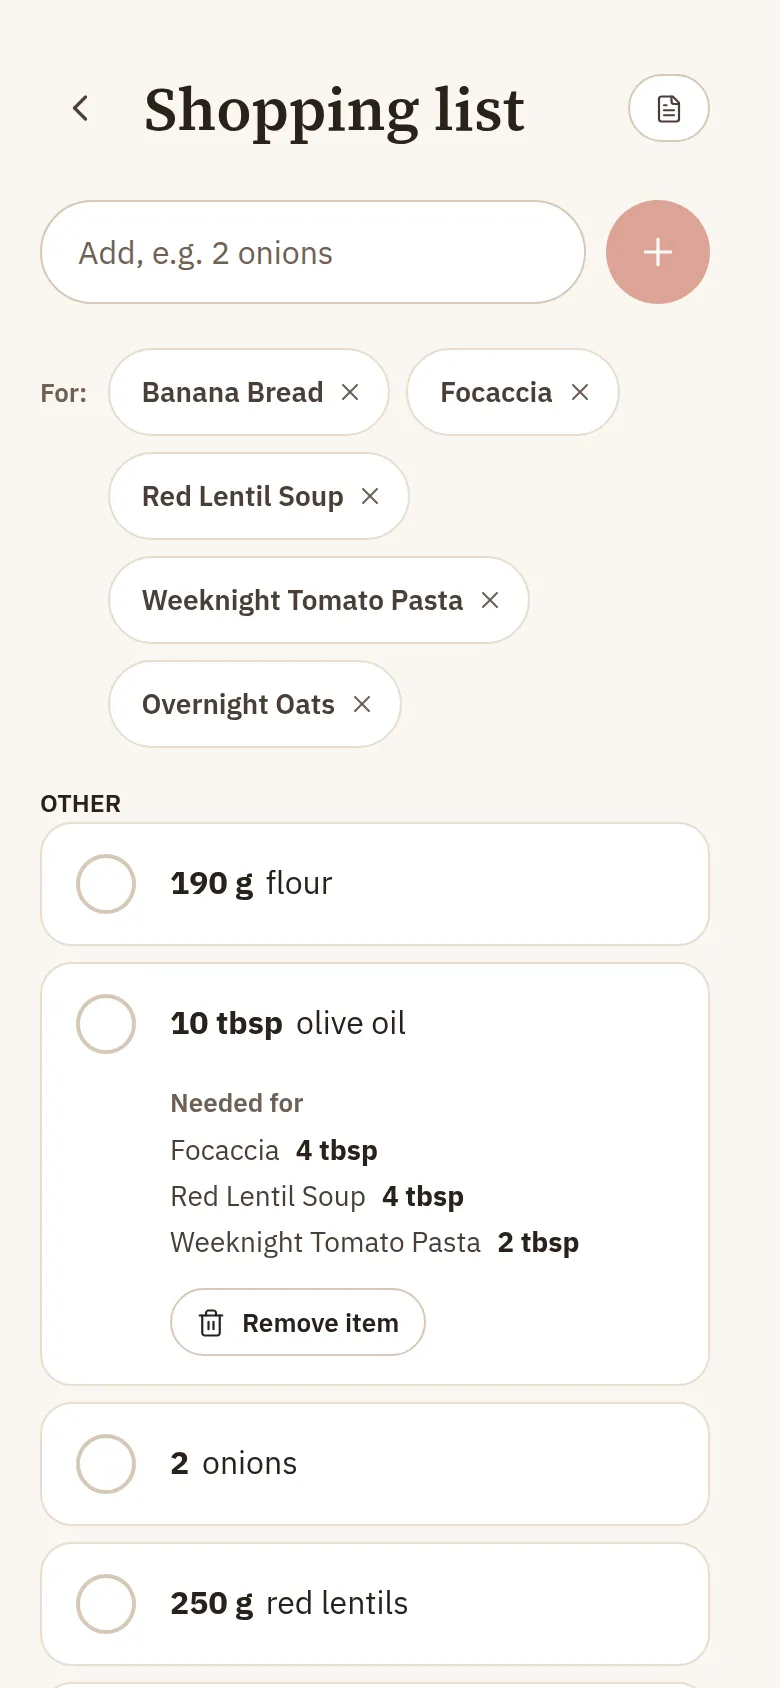
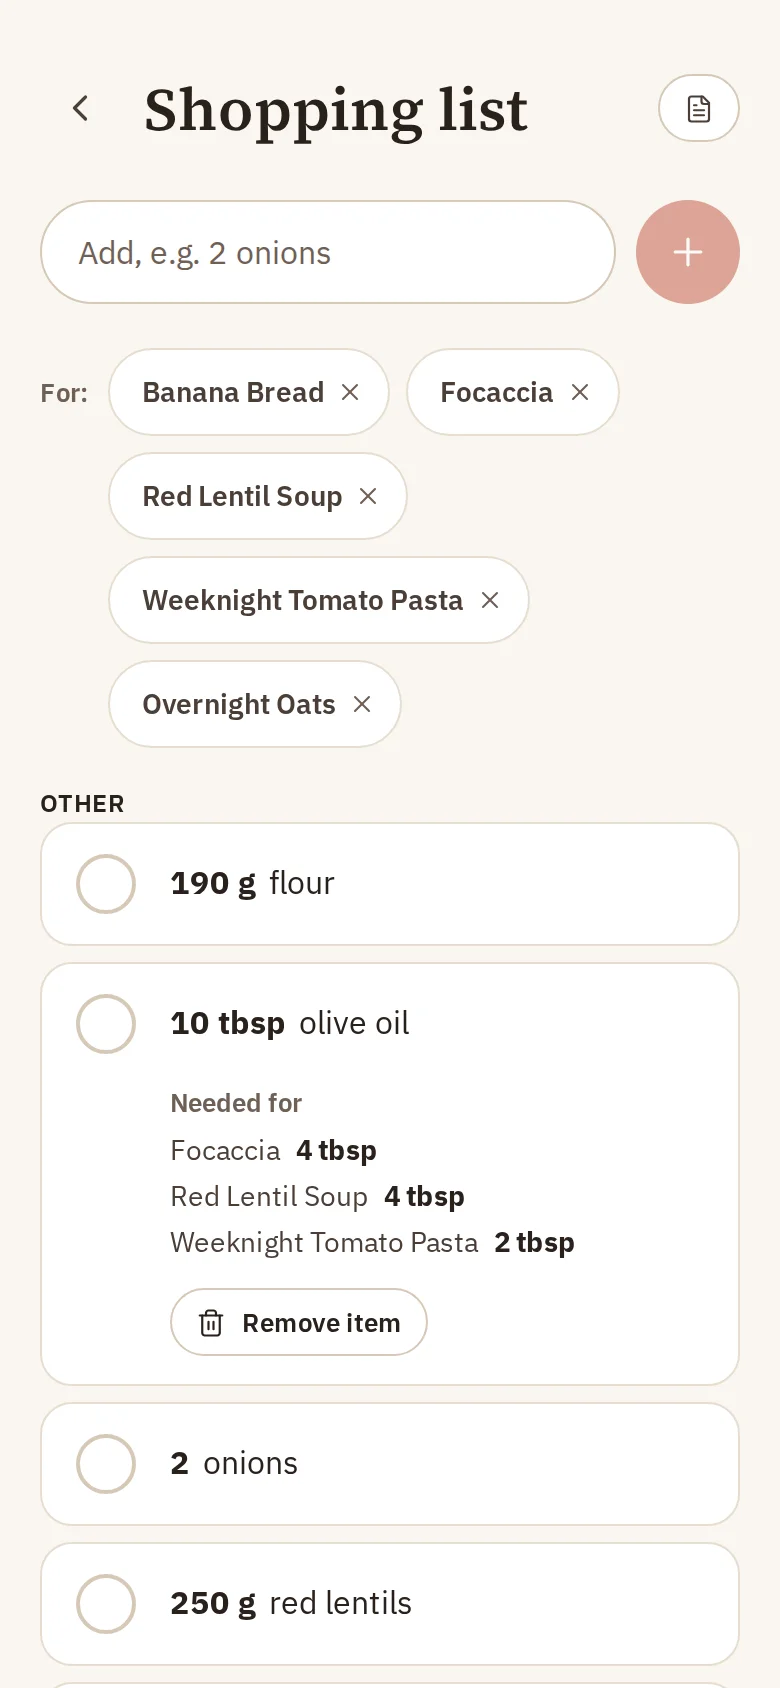
docs: screenshots for 1.0 (README and directory listing) (#143)
* docs: screenshots for 1.0 (README and directory listing)

Retake the five README images with the current version, add the editor,
delete dialog and feedback dialog, list the corrections in the features,
and add the image set for the Obsidian community directory (docs/listing).

Closes #142

Claude-Session: https://claude.ai/code/session_01FoRi29DfdsGHMxXfCxAuKG

* docs: retake screenshots with food photos

Recipe cards and pages showed only the striped placeholder. The images are
retaken with free Unsplash photos fed into the preview only while taking
the screenshots (the photos are not in the repository); credits are in
docs/listing/README.md.

Claude-Session: https://claude.ai/code/session_01FoRi29DfdsGHMxXfCxAuKG

diff --git a/docs/listing/README.md b/docs/listing/README.md
@@ -1,0 +1,41 @@
+# Directory listing images
+
+Images for the listing of Better Cooking in the Obsidian community directory. All images show the browser preview (`pnpm preview`) with the self-written example recipes of `tests/fixtures/`, English interface (`lang=en`). Nothing in them is private data. The food photos on the recipe cards and pages were added only while taking the screenshots; they are not part of this repository.
+
+Order for the listing (desktop and phone are meant to be shown as two groups):
+
+| #   | Desktop, 1200 x 800 px         | Shows                                                  | Theme |
+| --- | ------------------------------ | ------------------------------------------------------ | ----- |
+| 1   | `desktop-1-overview.png`       | Overview with recipe cards, lists and categories       | light |
+| 2   | `desktop-2-recipe-dark.png`    | Recipe page with servings calculator and timer buttons | dark  |
+| 3   | `desktop-3-shopping-list.png`  | Shopping list with sections per store                  | light |
+| 4   | `desktop-4-meal-plan-dark.png` | Meal plan with the days of the week                    | dark  |
+| 5   | `desktop-5-editor.png`         | Recipe editor (new in 0.9)                             | light |
+
+| #   | Phone, 900 x 1600 px            | Shows                                                       | Theme |
+| --- | ------------------------------- | ----------------------------------------------------------- | ----- |
+| 1   | `phone-1-overview.png`          | Overview                                                    | light |
+| 2   | `phone-2-recipe-dark.png`       | Recipe page                                                 | dark  |
+| 3   | `phone-3-cooking-mode-dark.png` | Cooking mode with a running timer                           | dark  |
+| 4   | `phone-4-shopping-list.png`     | Shopping list with the amounts per recipe of an opened line | light |
+| 5   | `phone-5-meal-plan-dark.png`    | Meal plan                                                   | dark  |
+
+Phone images are taken at a viewport of 450 x 800 px with device scale factor 2 and touch emulation; desktop images at 1200 x 800 px, factor 1.
+
+## Suggested short description (about 250 characters)
+
+> Browse, search and cook your recipe notes: card overview, instant offline search, servings calculator, step-by-step cooking mode with timers, shopping list, meal plan, and import from a link or your own AI.
+
+## Suggested keywords
+
+The directory has no fixed category list; the manifest `description` and the README are what it shows and searches. Keywords that fit: recipes, cooking, cookbook, meal plan, shopping list, timer, schema.org.
+
+## Photo credits
+
+The recipe photos in the images are free to use under the Unsplash License. Credits as a courtesy:
+
+- Photos: Unsplash, Diego Arenas de Rodrigo, https://unsplash.com/photos/kOU7kMox_2Y (Focaccia)
+- Photos: Unsplash, Cody Chan, https://unsplash.com/photos/a0fBbS8RZAo (Banana Bread)
+- Photos: Unsplash, Alex Bayev, https://unsplash.com/photos/s8GfYrV88vo (Overnight Oats)
+- Photos: Unsplash, Nathan Dumlao, https://unsplash.com/photos/hWDYfmyAz4g (Red Lentil Soup, a red tomato-style soup)
+- Photos: Unsplash, Vinn Koonyosying, https://unsplash.com/photos/PLyJqEJVre0 (Weeknight Tomato Pasta)

diff --git a/README.md b/README.md
@@ -15,6 +15,13 @@ Browse, search and cook your recipe notes in [Obsidian](https://obsidian.md): a 
   <img src="docs/images/plan.webp" alt="Meal plan page with recipes planned for the days of the week" width="72%">
   <img src="docs/images/shopping-phone.webp" alt="Shopping list on a phone with an opened line that shows how much each recipe needs" width="26%">
 </p>
+<p>
+  <img src="docs/images/editor.webp" alt="Recipe editor on the desktop with fields for title, yield, times, category and one ingredient per line" width="100%">
+</p>
+<p>
+  <img src="docs/images/delete.webp" alt="Dialog Delete recipe? that lists the note, older versions and meal plan entries that will be removed, with the option to set the recipe to Discarded instead" width="49%">
+  <img src="docs/images/feedback.webp" alt="Dialog Fetch again with feedback with a text field What is wrong? and the button Read again with my AI" width="49%">
+</p>
 
 ## Features
 
@@ -24,6 +31,7 @@ Browse, search and cook your recipe notes in [Obsidian](https://obsidian.md): a 
 - **Cooking mode:** one step per screen in large type, ingredients used in that step, on touch screens tap the left or right side to change the step, screen stays on, multiple timers that keep running outside the cooking mode and after a restart (see below).
 - **Shopping list:** add a recipe's ingredients for the servings you need; equal items are merged (500 g + 1 kg flour = 1,5 kg) into a plain Markdown checklist that works without the plugin. New items are sorted into sections per store (setting "Stores"), and a tap on a line shared by several recipes shows how much each one needs (removing a recipe takes exactly its amount off).
 - **Meal plan:** a page with the days of the week; plan recipes with their servings, move or remove them, start cooking from a day, put the whole week on the shopping list, export it as a calendar file. The plan is a Markdown note.
+- **Your corrections:** edit a recipe in a form (hand edits survive "Fetch again"), delete a recipe with everything that belongs to it after a dialog lists what goes, or say what is wrong and fetch it again with that hint. A social media post shows up at once as a first version that Claude or GitHub can improve.
 - **Share:** copy a recipe as text, print it or save it as PDF, scaled to the servings you need.
 - **Track your cooking:** status, star rating, "made today" and an attempts log, written to the note's frontmatter.
 - **Import:** paste a link to a recipe website and Better Cooking reads its recipe data itself (schema.org, no AI). Pasted text is split up by simple rules without AI (always with the processor "None (without AI)"), or goes, like pages without recipe data, to your own AI (Anthropic or any OpenAI-compatible server, also a local model), social media posts (Instagram, TikTok, YouTube, Pinterest) are read by the plugin itself from their public page and then handled like pasted text, or like the recipe website they link to; only recipes that exist only in a video, and Facebook (login needed), need pasting or a processor you set up yourself. Duplicate sources are detected before anything is sent.

diff --git a/CHANGELOG.md b/CHANGELOG.md
@@ -6,6 +6,7 @@ All notable changes to this project are documented here. Format: [Keep a Changel
 
 ### Changed
 
+- README: new screenshots of the current version and a section on editing, deleting and feedback; screenshots for the Obsidian community directory in `docs/listing/`.
 - The plugin's own palette is called "Better Cooking" instead of "Kitchen" and stays the default; the stored setting is unchanged, so nothing has to be set again (#14).
 
 ## [0.9.0] - 2026-11-27
